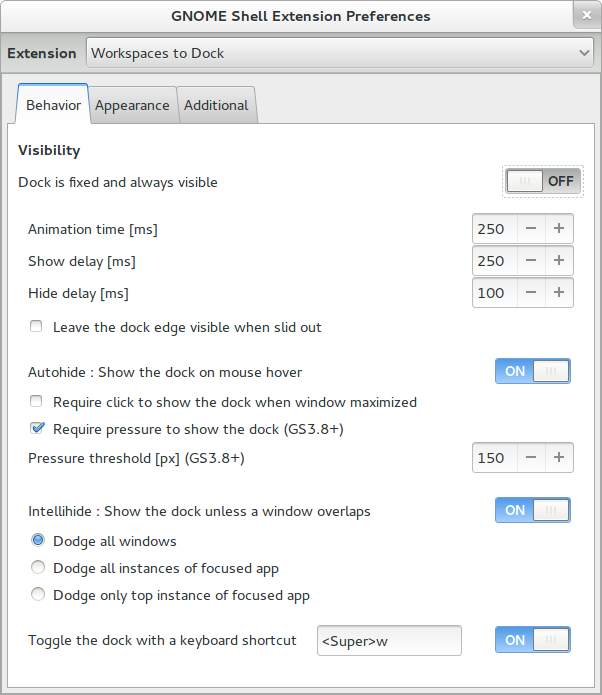
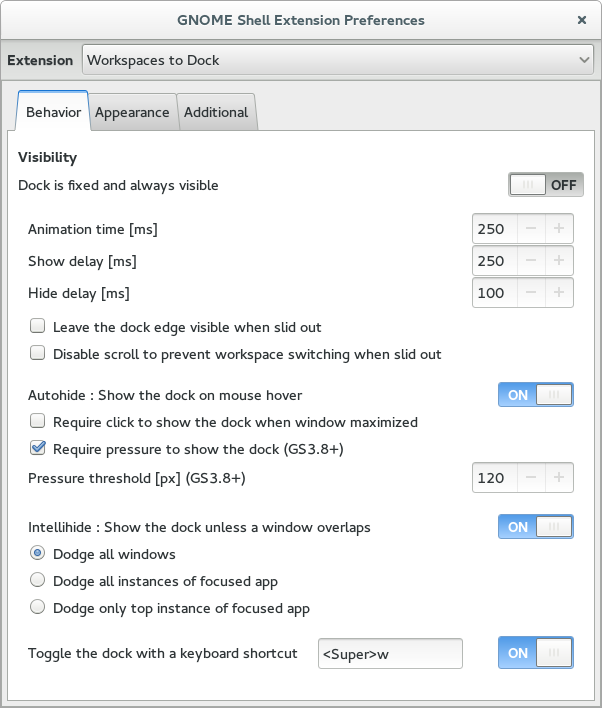
Updated Readme and Screenshots.

diff --git a/README.md b/README.md
@@ -41,6 +41,8 @@ Behavior Settings:
 
     **Leave the dock edge visible when slid out** - Option to leave the dock edge visible when in the slid out or hidden state. This option makes the dock more easily accessible in dual monitor configurations where the second monitor is to the right.
 
+    **Disable scroll to prevent workspace switching when slid out** - Option to disable mouse scrolling to prevent accidentally switching workspaces when the dock is hidden.
+    
     **Autohide : Show the dock on mouse hover** - When enabled, the dock shows when the mouse touches the right edge of screen. When disabled, the dock remains hidden unless the intellihide option is on or overview mode is entered.
 
     **Require click to show the dock when window maximized** - Require a mouse click (in addition to hovering) to show the dock when the focused window is maximized. This option helps eliminate accidentally triggering the dock when using vertical scroll bars on maximized windows.
